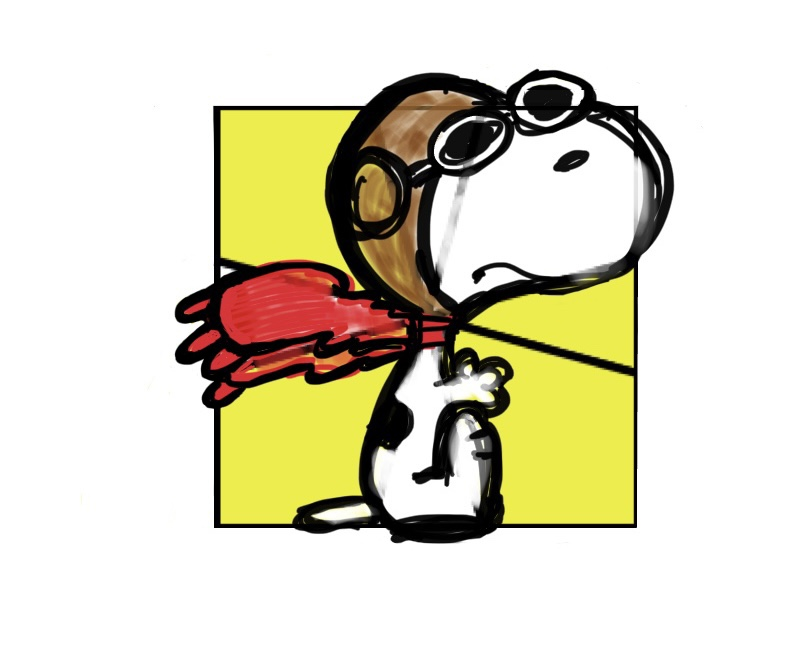
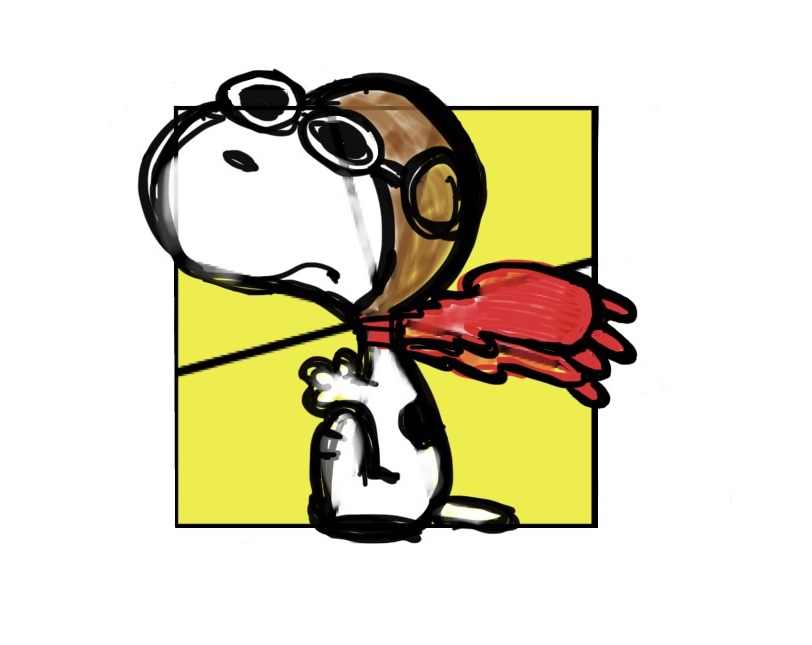
Flip baron and zero

diff --git a/_faces/zero.md b/_faces/zero.md
@@ -5,6 +5,4 @@ type: 2E2C
 has_lr: true
 ---
 
-It's Zero the ghost dog from Nightmare Before Christmas!  His long thin face is the odd edge out, and his two flappy ears cover the odd corner.  His body takes up the edge/corner pair, with the edge of the pair acting as Zero's front leg.
-
-TODO Note: The picture below is actually the "Right" facing version of Zero.
+It's Zero the ghost dog from Nightmare Before Christmas!  His long thin face is the odd edge out, and his two flappy ears cover the lone corner.  His body takes up the edge/corner pair, with the edge of the pair acting as Zero's front leg.

diff --git a/_faces/baron.md b/_faces/baron.md
@@ -6,5 +6,3 @@ type: 3E1C
 has_lr: true
 ---
 The Red Baron is <a href="snoopy">Snoopy's</a> nemesis.  Since he is (spoiler) actually just a figment of Snoopy's imagination, the Baron looks just like Snoopy but with a cape.
-
-TODO: Note: the "Right" version of the face is pictured below.
